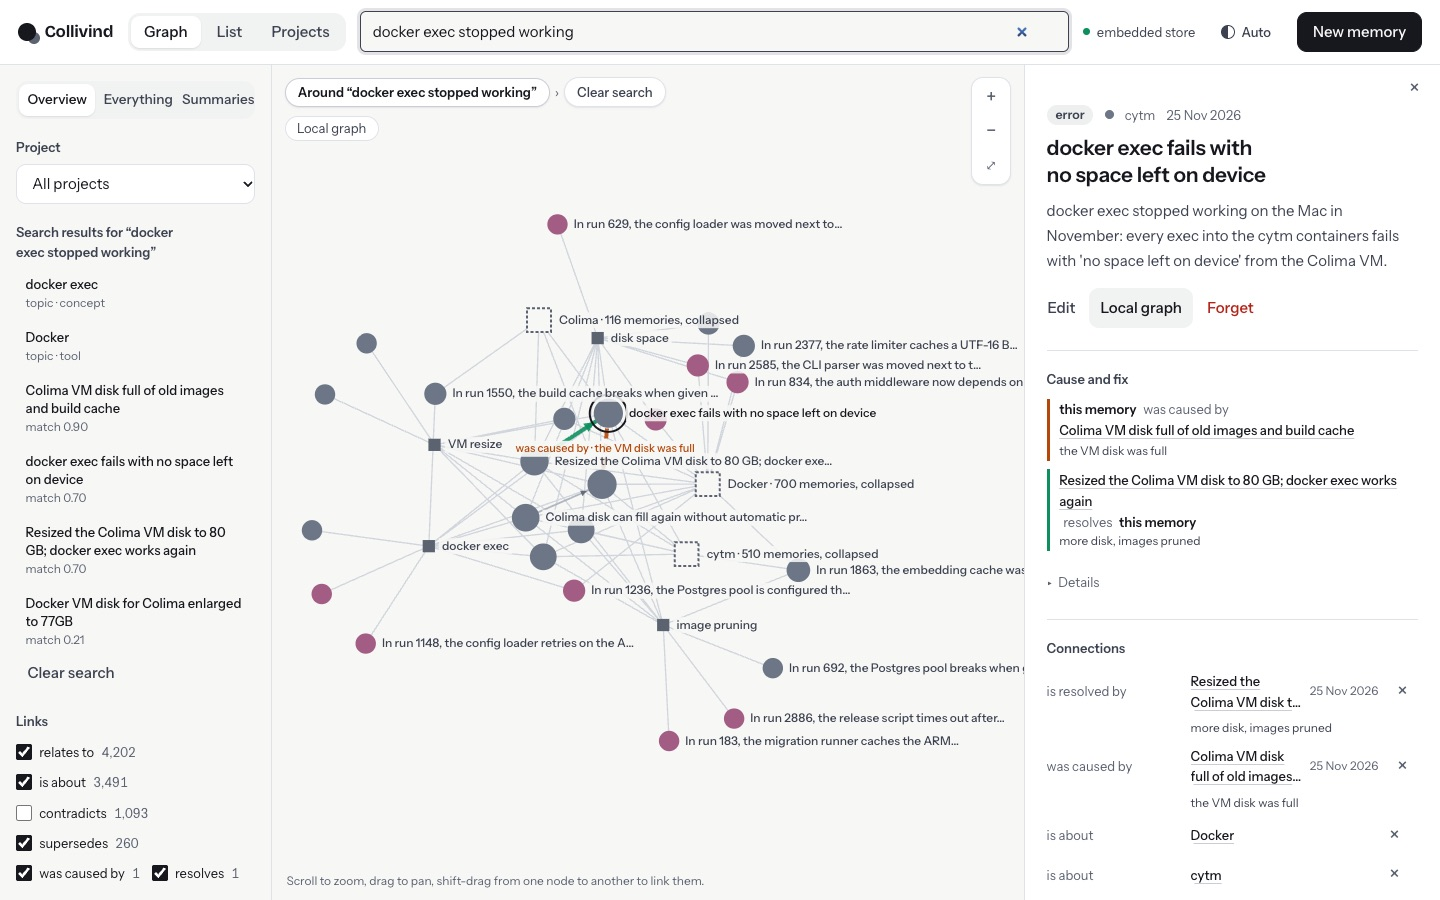
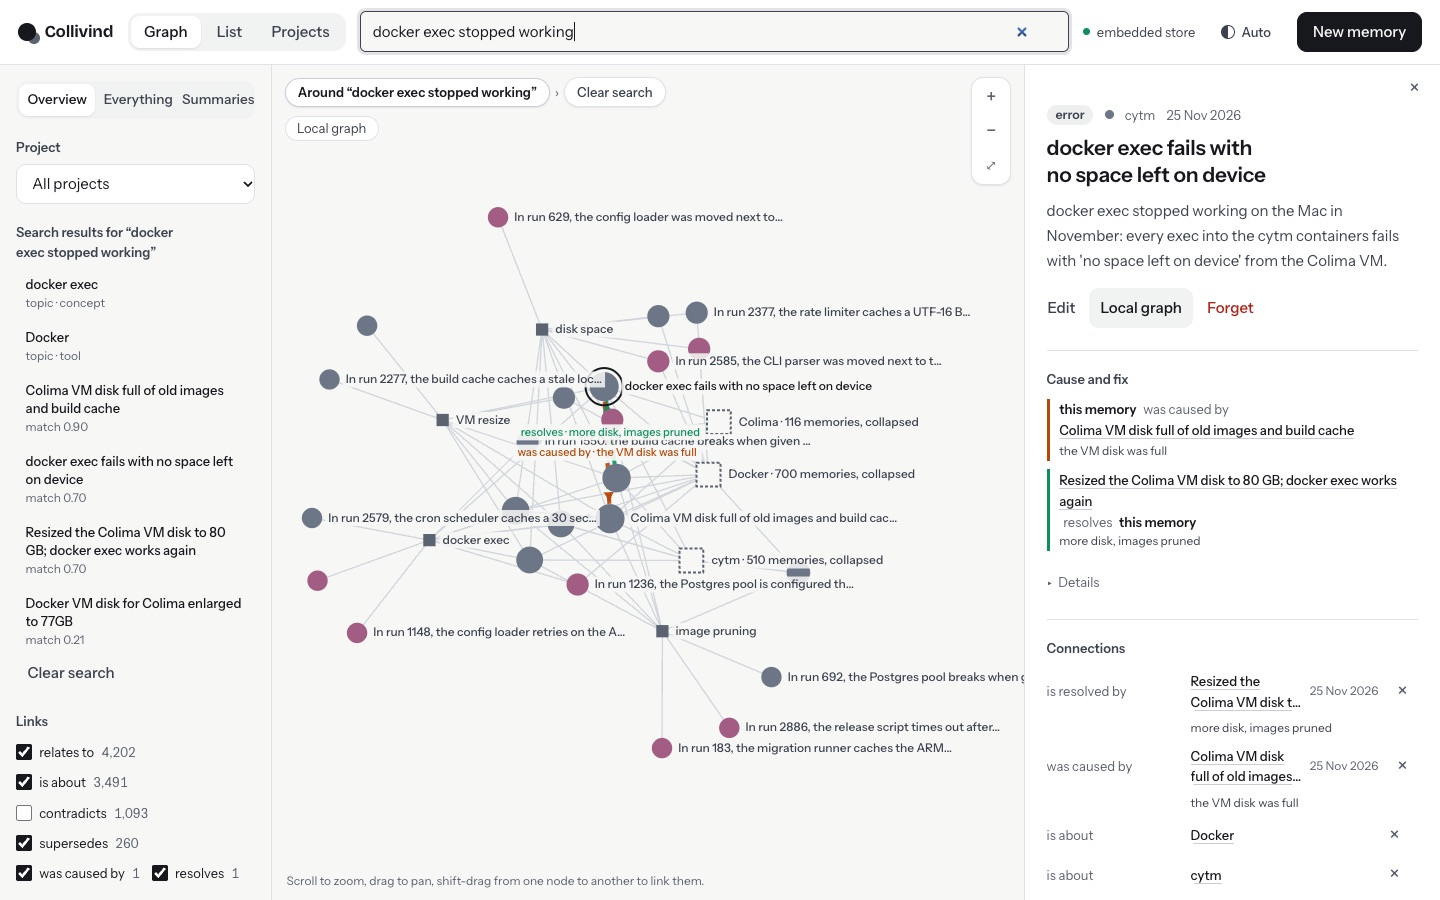
fix: address review of the local graph
- Rank strictly by hop, then score, so the cap never keeps a node without
  the node that connects it to the centre.
- Scope /api/local to the project filter; guard overlapping local graph
  requests; with every link type unticked show only the selection.
- An exact-duplicate save still writes the links it states (a fix saved
  twice keeps its RESOLVES edge); a caller's target_id may not use the
  reserved batch-index: prefix.
- Don't offer to open the centre hub; show chain load errors; clear a
  stale hover on re-centre so a fresh layout is not held; refit on panel
  open once the layout has settled.
- Bump the plugin manifests to 0.21.0.

Changed region(s): [[0.1875, 0.3422, 0.7188, 0.7467], [0.4375, 0.7156, 0.7188, 0.84], [0.3438, 0.2178, 0.5312, 0.28]]

diff --git a/src/collivind/web/static/app.js b/src/collivind/web/static/app.js
@@ -34,6 +34,7 @@ const state = {
   local: false,
   localGraph: null,      // the selection's neighbourhood, ranked and capped server-side
   localLimit: LOCAL_LIMIT,
+  localSeq: 0,           // only the newest local graph request is drawn
   openHubs: new Set(),   // hub entities the reader opened in the local graph
   duplicates: null,      // { of, likely: Map id -> bool } near-duplicates of the open memory
   depth: 1,
@@ -124,13 +125,18 @@ function rebuildById() {
 async function loadLocal({ apply = true } = {}) {
   const id = state.selected;
   if (!id) return;
+  const seq = ++state.localSeq;
   const params = new URLSearchParams({ id, depth: String(state.depth), types: [...state.edgeTypes].join(","), limit: String(state.localLimit) });
   if (state.openHubs.size) params.set("expand", [...state.openHubs].join(","));
+  // scoped server-side, so the cap is spent on what the project filter shows
+  if (state.filters.project) params.set("project", state.filters.project);
   try {
-    const g = await api(`/api/local?${params}`);
-    if (state.selected !== id || !state.local) return; // the reader moved on while this was in flight
+    // every link type unticked: nothing to walk (an empty types= would read as "all")
+    const g = state.edgeTypes.size ? await api(`/api/local?${params}`)
+      : { nodes: [state.byId.get(id)].filter(Boolean), edges: [], more: 0, total_memories: 1, center: id };
+    if (seq !== state.localSeq || state.selected !== id || !state.local) return; // superseded while in flight
     state.localGraph = g;
-  } catch (e) { showError(e); return; }
+  } catch (e) { if (seq === state.localSeq) showError(e); return; }
   rebuildById();
   view.userMoved = false;
   if (apply) applyFilters();
@@ -305,7 +311,7 @@ function renderLocalTools() {
   const box = $("#local-tools");
   const g = state.local && state.localGraph;
   if (!g) { box.hidden = true; box.innerHTML = ""; return; }
-  const hubs = g.nodes.filter((n) => n.hub);
+  const hubs = g.nodes.filter((n) => n.hub && n.id !== g.center);
   box.hidden = !hubs.length && !g.more;
   box.innerHTML = (hubs.length ? `<p class="hint">Shared by many memories, so the local graph does not walk through:</p><ul class="hubs">${hubs.map((n) =>
     `<li><button class="quiet" data-hub="${esc(n.id)}" title="Add the memories about it that are most related to the selection">Open ${esc(n.label)} <span class="count">${n.count.toLocaleString()}</span></button></li>`).join("")}</ul>` : "")

diff --git a/src/collivind/web/static/graph.js b/src/collivind/web/static/graph.js
@@ -111,7 +111,9 @@ export class GraphView {
     }
     this.scaleNodes(true);
     if (this.selected && !visible.has(this.selected)) this.selected = null;
-    if (this.hover && !visible.has(this.hover)) this.hover = null; // a stale hover would hold the layout
+    // A click that re-centres leaves the pointer resting on a node of the new
+    // graph; that hover would hold the fresh layout still. The next move re-hits.
+    if (!fixed) this.hover = null;
     this.alpha = fixed ? 0 : Math.max(this.alpha, reheat);
     // Thousands of edges at full strength are a solid smear; the more there
     // are, the fainter each one, so structure shows through the density.
@@ -181,7 +183,8 @@ export class GraphView {
     const n = this.byId.get(id);
     // while the view still fits itself it keeps every node in sight; moving it
     // here would mark it user-moved and freeze a half-settled layout off-fit
-    if (!n || !this.w || !this.userMoved) return;
+    if (!n || !this.w) return;
+    if (!this.userMoved) { if (this.alpha <= 0.004) this.fit(); return; }
     const sx = n.x * this.k + this.tx, sy = n.y * this.k + this.ty;
     if (sx < margin || sx > this.w - margin || sy < margin || sy > this.h - margin) this.centerOn(id, false);
   }

diff --git a/src/collivind/web/static/panel.js b/src/collivind/web/static/panel.js
@@ -160,7 +160,11 @@ async function loadExtras(m) {
     ctx.duplicatesFound(id, dups.duplicates || []);
   }
   if (current?.id !== id || !extras.chain) return;
-  renderChain(m, extras.chain);
+  if (extras.chain.error) {
+    const box = $("#p-chain");
+    box.hidden = false;
+    box.innerHTML = `<h3>Cause and fix</h3><p class="hint">Could not load: ${esc(extras.chain.error)}</p>`;
+  } else renderChain(m, extras.chain);
   renderDuplicates(m, extras.dups);
 }
 

diff --git a/src/collivind/engine/memory_manager.py b/src/collivind/engine/memory_manager.py
@@ -115,7 +115,10 @@ class MemoryManager:
             existing = self._graph_write(self.graph_store.get_memory, dup_match.memory_id)
             if existing:
                 if dup_match.is_exact:
-                    # identical content resubmitted — reject, keep existing as-is
+                    # identical content resubmitted — keep existing as-is, but the
+                    # links the save states are new knowledge ("this fix resolves
+                    # that error") and must not vanish with the duplicate text
+                    self._write_relationships(existing.id, relationships)
                     return existing, []
                 # near-duplicate with different content: the incoming memory is
                 # the fresh version — store it and retire the stale one below,
@@ -153,13 +156,7 @@ class MemoryManager:
                     )
                 )
 
-        for rel in relationships or []:
-            if isinstance(rel, EntityRelation):
-                self._relate_entities(rel)
-                continue
-            if not rel.source_id:
-                rel.source_id = memory_node.id
-            self.graph_store.create_relationship(rel)
+        self._write_relationships(memory_node.id, relationships)
 
         # No CONTRADICTS edge from similarity: on a real store it flagged
         # thousands of compatible pairs (see engine/conflicts.py).
@@ -171,6 +168,15 @@ class MemoryManager:
             logger.warning("conflict check failed for %s", memory_node.id, exc_info=True)
             conflicts = []
         return memory_node, conflicts
+
+    def _write_relationships(
+        self, memory_id: str, relationships: Optional[Sequence[Union[RelationshipCreate, EntityRelation]]]
+    ) -> None:
+        for rel in relationships or []:
+            if isinstance(rel, EntityRelation):
+                self._relate_entities(rel)
+            else:
+                self.graph_store.create_relationship(replace(rel, source_id=rel.source_id or memory_id))
 
     @staticmethod
     def _graph_write(fn, *args, outcome: str = "the memory was NOT saved"):

diff --git a/tests/unit/test_semantic_edges.py b/tests/unit/test_semantic_edges.py
@@ -5,6 +5,7 @@ from unittest.mock import MagicMock
 import pytest
 
 from collivind.config import CollivindConfig
+from collivind.engine.dedup import DuplicateMatch
 from collivind.engine.memory_manager import LINKABLE, MemoryManager
 from collivind.models import MemoryCreate, RelationshipCreate, RelType
 from collivind.models.memory import MemoryCategory
@@ -161,3 +162,26 @@ def test_target_index_must_point_earlier_in_the_batch(manager, index):
 def test_target_index_outside_a_batch_is_refused():
     with pytest.raises(ValueError, match="batch"):
         parse_relationship({"target_index": 0, "type": "RESOLVES"})
+
+
+def test_a_duplicate_fix_still_records_its_link(manager):
+    """The fix text was saved before; the RESOLVES edge stated now must not vanish with the duplicate."""
+    fix = manager.batch_add_memories([_item("resized the colima disk to 80 GB", "decision")])[0]
+    manager.deduplicator.find_duplicate_detailed = lambda vector, project: (
+        DuplicateMatch(fix, 0.99, True) if vector == "dup" else None
+    )
+    manager.embedding_provider.embed.side_effect = lambda text: "dup" if "colima" in text else [0.1]
+    ids = manager.batch_add_memories(
+        [
+            _item("docker exec fails: no space left on device"),
+            _item("resized the colima disk to 80 GB", "decision", [{"target_index": 0, "type": "RESOLVES"}]),
+        ]
+    )
+    assert ids[1] == fix
+    edges = {(r.source_id, r.type.value, r.target_id) for r in manager.graph_store.iter_relationships()}
+    assert (fix, "RESOLVES", ids[0]) in edges
+
+
+def test_a_target_id_cannot_pose_as_a_batch_reference():
+    with pytest.raises(ValueError, match="target_index"):
+        parse_relationship({"target_id": "batch-index:0", "type": "RESOLVES"}, in_batch=True)

diff --git a/tests/unit/test_web_local.py b/tests/unit/test_web_local.py
@@ -258,3 +258,17 @@ class TestLocalRoute:
     )
     def test_bad_params(self, hubbed, params):
         assert route(MemoryAPI(hubbed[0]), "GET", "/api/local", params, {})[0] == 400
+
+
+def test_the_cap_never_keeps_a_node_without_its_path_to_the_centre(mgr):
+    """Review finding: strongly linked hop-3 nodes used to outrank the hop-2 nodes that reach them."""
+    center = _add(mgr, "the centre memory", ["topic"])
+    for i in range(20):
+        mid = _add(mgr, f"mid memory {i} on topic {i * 13}", ["topic"])
+        far = _add(mgr, f"far fix {i} for mid {i * 17}")
+        mgr.link(far.id, mid.id, RelType.RESOLVES)
+    g = neighbourhood(mgr.graph_store, center.id, depth=3, limit=25)
+    kept = set(_ids(g))
+    linked = {e["source"] for e in g["edges"]} | {e["target"] for e in g["edges"]}
+    assert kept - {center.id} <= linked  # every kept node is drawn connected
+    assert [n["hop"] for n in g["nodes"]] == sorted(n["hop"] for n in g["nodes"])

diff --git a/src/collivind/models/relations.py b/src/collivind/models/relations.py
@@ -118,4 +118,7 @@ def parse_relationship(raw: Dict[str, Any], in_batch: bool = False) -> Union[Rel
         if isinstance(index, bool) or not isinstance(index, int) or index < 0:
             raise ValueError("target_index must be the position (0, 1, ...) of an earlier memory in this batch")
         return RelationshipCreate(source_id="", target_id=f"{BATCH_REF}{index}", type=rel_type, properties=properties)
-    return RelationshipCreate(source_id="", target_id=raw["target_id"], type=rel_type, properties=properties)
+    target_id = raw["target_id"]
+    if isinstance(target_id, str) and target_id.startswith(BATCH_REF):
+        raise ValueError(f"target_id cannot start with {BATCH_REF!r}; use target_index for this batch")
+    return RelationshipCreate(source_id="", target_id=target_id, type=rel_type, properties=properties)

diff --git a/src/collivind/web/local.py b/src/collivind/web/local.py
@@ -101,10 +101,12 @@ def neighbourhood(
         m = memory_by_id.get(i)
         return m.created_at.isoformat() if m and m.created_at else ""
 
-    # newest first among equals, then nearest first, then best first (stable sorts)
+    # Nearest first, then best first, then newest (stable sorts). Ranking only
+    # within a hop keeps the graph connected: every kept node at hop n has the
+    # node that reached it at hop n-1, which sorted earlier.
     ranked = sorted((i for i in dist if i != center), key=newest, reverse=True)
     ranked.sort(key=lambda i: -score.get(i, 0.0))
-    ranked.sort(key=lambda i: min(dist[i], 2))  # the centre's own neighbours always come first
+    ranked.sort(key=lambda i: dist[i])
     kept = [center, *ranked[: max(0, limit - 1)]]
     kept_set = set(kept)
     nodes = [
